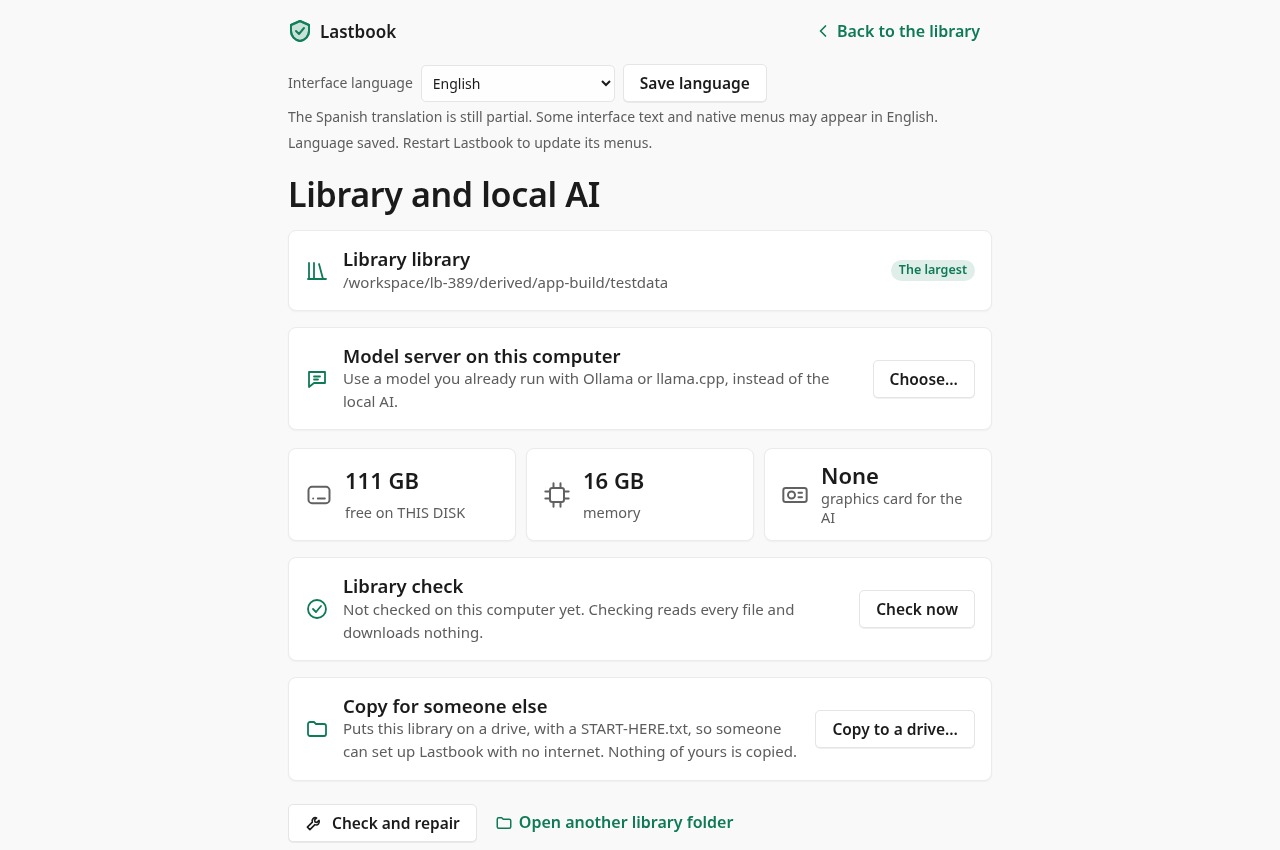
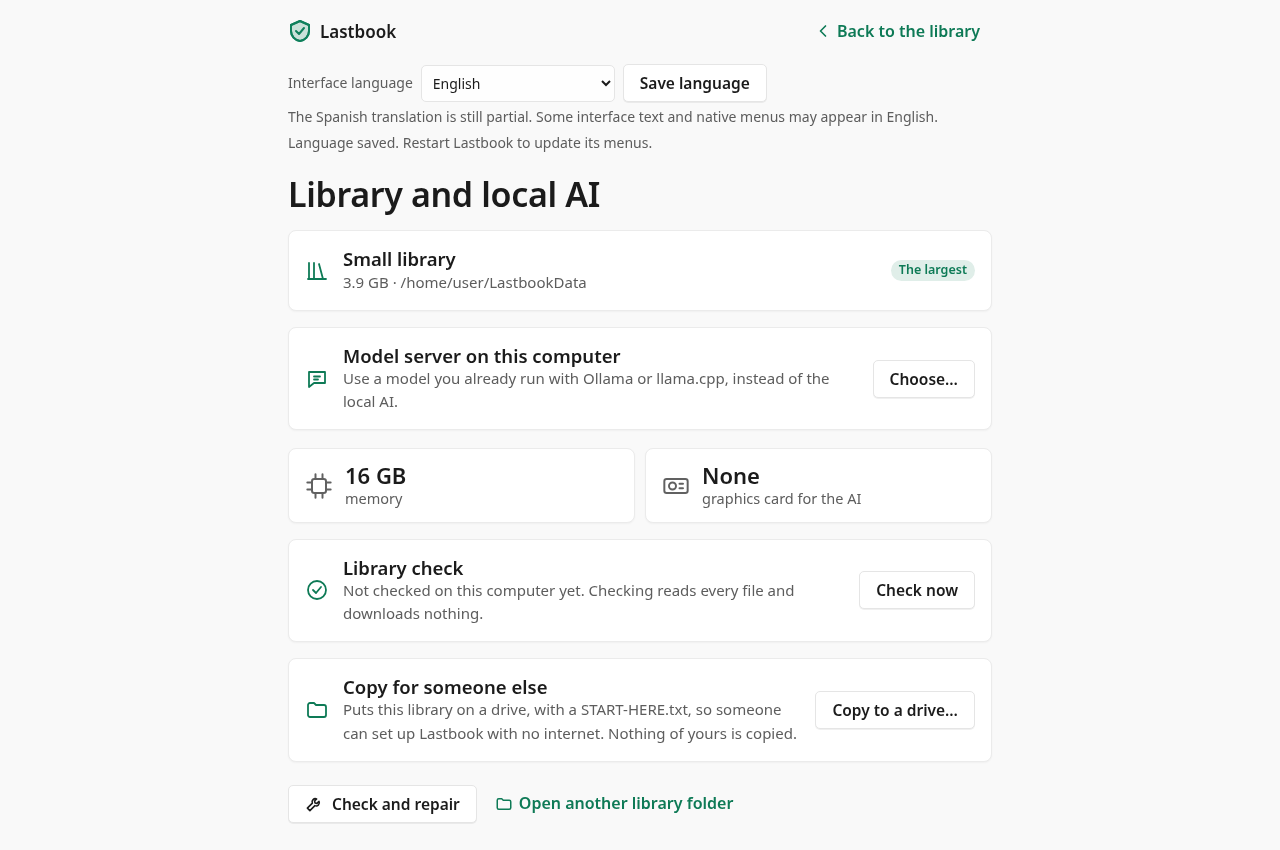
docs: regenerate localization review screenshots with a neutral library path
The Settings screenshots now show the library card as one phrase ("Biblioteca
Small" / "Small library") and the fixture library in /home/user/LastbookData
instead of the checkout path of the machine that took them.

diff --git a/docs/review-previews/i18n-2026-11/README.md b/docs/review-previews/i18n-2026-11/README.md
@@ -6,4 +6,4 @@ These review previews cover the Library and Settings screens requested in PR #38
 - `settings-es-419.png`: Settings in Español (Latinoamérica).
 - `settings-en.png`: Settings after switching back to English in the same page, without a reload.
 
-Regenerated on 2026-11-27 from the final code of the stack (after the default-deny scanner and keyed server labels). Captured at a 1280 × 850 CSS viewport with Chromium and the checked-in Playwright browser/bridge harness. The harness uses the real Lastbook HTTP handler and a synthetic fixture library; these are not screenshots from a native macOS or Windows installation.
+Regenerated on 2026-11-27 from the final code of the stack (after the default-deny scanner and keyed server labels). Captured at a 1280 × 850 CSS viewport with Chromium and the checked-in Playwright browser/bridge harness. The harness uses the real Lastbook HTTP handler and a synthetic fixture library (shown as a 3.9 GB "Small" library in `/home/user/LastbookData`); these are not screenshots from a native macOS or Windows installation.
